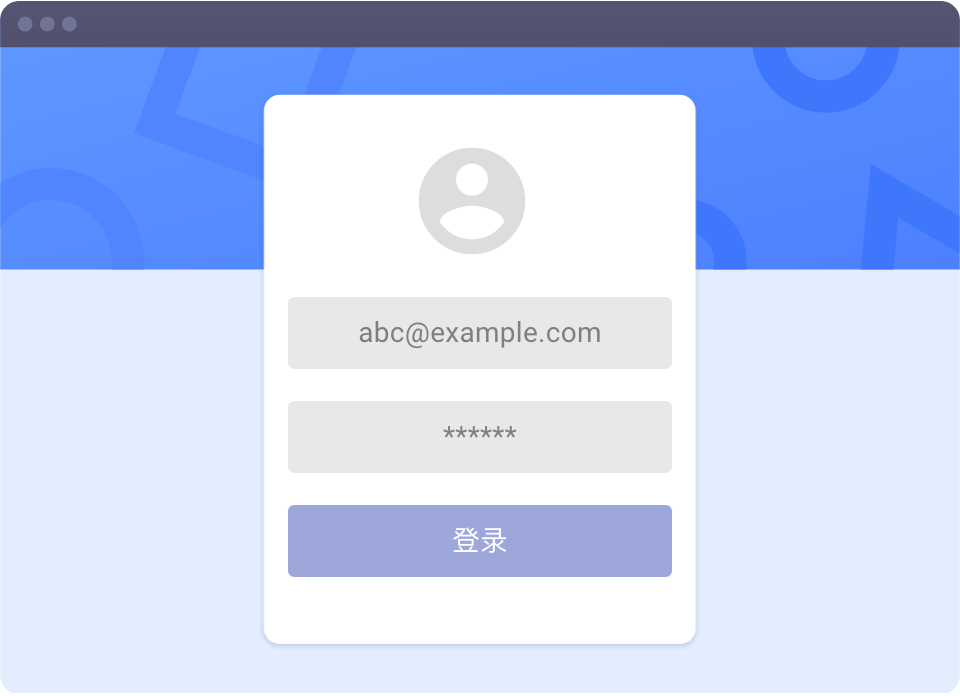
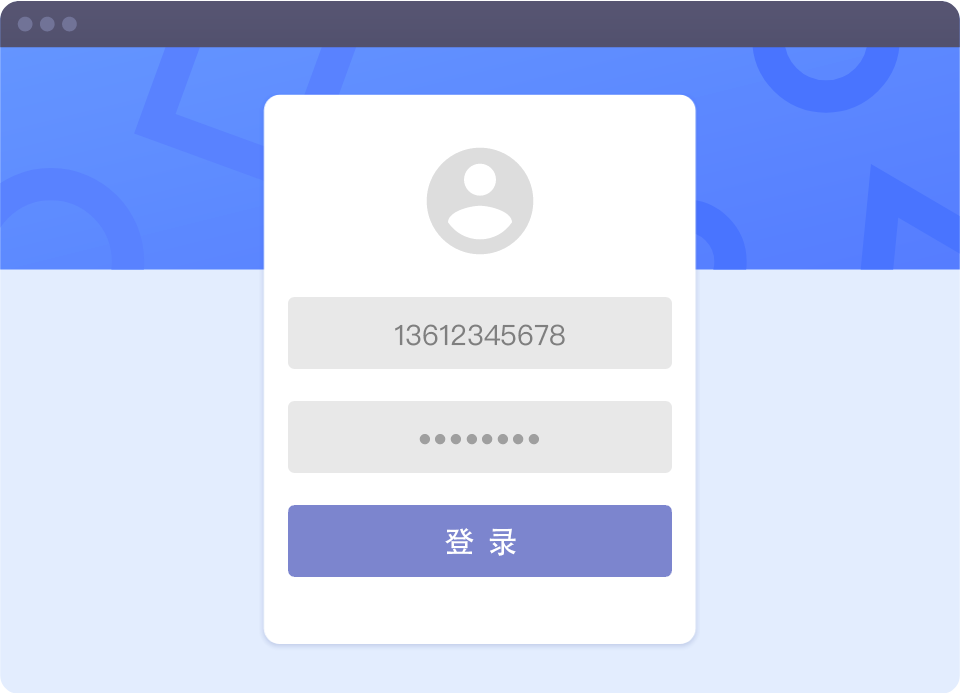
refactor: 优化sso页banner样式

diff --git a/src/components/single-sign-on/Banner.js b/src/components/single-sign-on/Banner.js
@@ -1,52 +1,24 @@
 import React from "react";
 import styles from "./Banner.module.css";
-import ssoBanner from "@site/static/img/sso-banner.png";
+import img1 from "@site/static/img/sso-banner.png";
 import Link from "@docusaurus/Link";
-import { Tooltip } from "@material-ui/core";
+import cn from "classnames";
 
 export default function () {
     return (
         <section className={styles.root}>
             <div className="container">
                 <div className="row">
-                    <div className="col">
-                        <h1 className={styles.title}>
-                            统一账号 &nbsp;单点登录
-                            <span style={{ whiteSpace: "nowrap" }}>
-                                （SSO
-                                <Tooltip
-                                    title="Single Sign On，单点登录"
-                                    placement="top"
-                                    enterTouchDelay={0}
-                                    leaveTouchDelay={5000}
-                                >
-                                    <span className="material-icons">help</span>
-                                </Tooltip>
-                                ）
-                            </span>
-                        </h1>
-                        <p className={styles.subtitle}>
-                            接入统一认证中心，跨应用共享账号，在别处注册的用户可以直接登录你的应用。
-                        </p>
-                        <div className={styles.buttonBox}>
-                            <a
-                                className="button button--primary button--lg"
-                                href="https://www.onlyid.net/console"
-                                target="_blank"
-                            >
-                                开始使用
-                            </a>
-                            <Link
-                                className="button button--secondary button--lg"
-                                to="/docs/sso"
-                                style={{ marginLeft: 30 }}
-                            >
-                                查看文档
-                            </Link>
-                        </div>
+                    <div className={cn("col", styles.col1)}>
+                        <span className="material-icons">portrait</span>
+                        <h1>单点登录 SSO</h1>
+                        <p>接入统一认证中心，跨应用共享账号，在别处注册的用户直接登录你的应用</p>
+                        <Link className="button button--primary" to="/docs/single-sign-on">
+                            查看文档
+                        </Link>
                     </div>
                     <div className="col">
-                        <img src={ssoBanner} alt="ssoBanner" className={styles.img1} />
+                        <img src={img1} alt="sso" className={styles.img1} />
                     </div>
                 </div>
             </div>

diff --git a/src/components/single-sign-on/Banner.module.css b/src/components/single-sign-on/Banner.module.css
@@ -1,85 +1,95 @@
 .root {
-    background-image: url("../../../static/img/sso-banner-bg.png");
+    background-image: url("/img/otp-banner-bg.png");
     background-size: cover;
+    color: white;
 }
 
-.title {
-    font-size: 40px;
+.col1 :global .material-icons {
+    font-size: 45px;
+    border-radius: 50%;
+    background-color: rgba(255, 255, 255, 0.85);
+    padding: 10px;
+    color: #3f51b5;
 }
 
-.title :global .material-icons {
-    font-size: 1.4rem;
-    vertical-align: text-top;
-    cursor: default;
+.col1 h1 {
+    margin-bottom: 30px;
 }
 
-.subtitle {
-    font-size: 22px;
+.col1 p {
+    margin-bottom: 40px;
 }
 
-.buttonBox a {
-    font-size: 16px;
-}
-
-.buttonBox :global .button--secondary:not(:hover) {
-    background-color: var(--ifm-color-gray-300);
-    border-color: var(--ifm-color-gray-300);
+.col1 :global .button {
+    --ifm-button-size-multiplier: 1.2;
 }
 
 .img1 {
     vertical-align: middle;
-    width: 100%;
-    border-radius: 15px;
-    background-color: rgba(100, 100, 100, 0.8);
-    padding: 32px 25px 25px;
-    opacity: 95%;
+    width: 530px;
+    background-color: rgba(255, 255, 255, 0.3);
 }
 
 @media (max-width: 996px) {
     .root {
-        padding: 76px 0 80px;
-        background-position: top left;
+        padding: 76px 0 95px;
+        background-position: 25% center;
     }
 
     .root :global .col + .col {
-        margin-top: 42px;
+        margin-top: 60px;
     }
 
-    .title {
-        margin-bottom: 25px;
+    .col1 h1 {
+        margin-top: 30px;
+        font-size: 38px;
     }
 
-    .subtitle {
-        margin-bottom: 28px;
+    .col1 p {
+        font-size: 19px;
     }
 
     .img1 {
-        max-width: 400px;
+        border-radius: 20px;
+        padding: 28px 20px 20px;
     }
 }
 
 @media (min-width: 997px) {
     .root {
         padding: 56px 0;
-        background-position: top center;
+        background-position: center center;
     }
 
     .root :global .row {
         align-items: center;
-        justify-content: space-between;
     }
 
-    .root :global .col {
-        --col-width: calc(59 / 120 * 100%);
-        flex: 0 0 var(--col-width);
-        max-width: var(--col-width);
+    .root :global .col:nth-child(2) {
+        text-align: right;
     }
 
-    .title {
-        margin-bottom: 32px;
+    .col1 :global .material-icons {
+        margin-top: -20px;
     }
 
-    .subtitle {
-        margin-bottom: 35px;
+    .col1 h1 {
+        margin-top: 25px;
+        font-size: 45px;
+    }
+
+    .col1 p {
+        font-size: 22px;
+    }
+
+    .img1 {
+        border-radius: 25px;
+        padding: 32px 25px 25px;
+    }
+}
+
+@media (min-width: 1140px) {
+    .root .col1 {
+        margin-left: 1rem;
     }
 }

diff --git a/src/components/home/Product.js b/src/components/home/Product.js
@@ -12,7 +12,7 @@ export default function () {
                     <div className="col col--4">
                         <Link className={styles.item} to="/one-time-password">
                             <span className={classNames("material-icons", styles.pin)}>pin</span>
-                            <h3>无密码 轻认证 &nbsp;OTP</h3>
+                            <h3>轻认证 OTP</h3>
                             <p>用短信/邮件验证码替代传统密码，即使新用户也可以快捷访问你的应用</p>
                         </Link>
                     </div>
@@ -21,18 +21,18 @@ export default function () {
                             <span className={classNames("material-icons", styles.portrait)}>
                                 portrait
                             </span>
-                            <h3>统一账号 单点登录 &nbsp;SSO</h3>
+                            <h3>单点登录 SSO</h3>
                             <p>
-                                接入统一认证中心，跨应用共享账号，在别处注册的用户可以直接登录你的应用
+                                接入统一认证中心，跨应用共享账号，在别处注册的用户直接登录你的应用
                             </p>
                         </Link>
                     </div>
                     <div className="col col--4">
-                        <Link className={styles.item} to="/user-and-access-management">
+                        <Link className={styles.item} to="/user-management">
                             <span className={classNames("material-icons", styles.groups)}>
                                 groups
                             </span>
-                            <h3>用户管理 权限控制 &nbsp;UAM</h3>
+                            <h3>用户管理 UM</h3>
                             <p>
                                 使用控制台和Open API简单快捷地管理用户，为不同的用户灵活分配访问权限
                             </p>

diff --git a/src/index.css b/src/index.css
@@ -84,7 +84,7 @@
     --ifm-code-font-size: 95%;
     --ifm-navbar-item-padding-horizontal: 1rem;
     --ifm-navbar-height: 3.5rem;
-    --ifm-menu-link-padding-vertical: 0.475rem;
+    --ifm-menu-link-padding-vertical: 8px;
     --ifm-font-color-base: rgba(0, 0, 0, 0.87);
     --ifm-menu-color: var(--ifm-color-emphasis-800);
     --ifm-container-width-xl: 1140px;
@@ -99,19 +99,19 @@
 
 /* nav bar start */
 .nav-item-product + .dropdown__menu .dropdown__link {
-    padding: 0.5rem 0.8rem;
-    font-size: 0.9375rem;
+    padding: 8px 16px 8px 12px;
+    font-size: 15px;
 }
 
 .nav-item-product + .dropdown__menu [class^="material-icons"] {
     vertical-align: -25%;
-    padding-right: 15px;
+    padding-right: 12px;
     opacity: 0.95;
 }
 
 .nav-item-product + .menu__list [class^="material-icons"] {
     font-size: 25px;
-    padding-right: 15px;
+    padding-right: 12px;
     opacity: 0.95;
 }
 

diff --git a/docusaurus.config.js b/docusaurus.config.js
@@ -2,16 +2,16 @@ const codeTheme = require("prism-react-renderer/themes/github");
 
 const productMenu = [
     {
-        html: '<span class="material-icons-outlined">pin</span>无密码 轻认证 &nbsp;OTP',
+        html: '<span class="material-icons-outlined">pin</span>轻认证 OTP',
         to: "/one-time-password"
     },
     {
-        html: '<span class="material-icons">portrait</span>统一账号 单点登录 &nbsp;SSO',
+        html: '<span class="material-icons">portrait</span>单点登录 SSO',
         to: "/single-sign-on"
     },
     {
-        html: '<span class="material-icons-outlined">groups</span>用户管理 权限控制 &nbsp;UAM',
-        to: "/user-and-access-management"
+        html: '<span class="material-icons-outlined">groups</span>用户管理 UM',
+        to: "/user-management"
     }
 ];
 

diff --git a/src/theme/Footer/index.module.css b/src/theme/Footer/index.module.css
@@ -19,7 +19,7 @@
 }
 
 ul.contact {
-    font-size: 0.9375rem;
+    font-size: 15px;
 }
 
 ul.contact li + li {
@@ -29,14 +29,15 @@ ul.contact li + li {
 ul.contact li :global .material-icons {
     font-size: 1rem;
     vertical-align: -20%;
-    margin-right: 0.4rem;
+    margin-right: 7px;
 }
 
 .qq {
-    font-size: 0.85rem;
-    margin-right: 0.4rem;
+    font-size: 13px;
+    margin-right: 7px;
     display: inline-block;
     width: 1rem;
+    text-align: center;
 }
 
 .company {
@@ -51,7 +52,7 @@ ul.links {
     display: flex;
     justify-content: space-between;
     align-items: center;
-    font-size: 0.875rem;
+    font-size: 14px;
 }
 
 li.divider {
@@ -60,7 +61,7 @@ li.divider {
 }
 
 .copyright {
-    font-size: 0.875rem;
+    font-size: 14px;
     margin-top: 11px;
     margin-bottom: 0;
     display: flex;

diff --git a/src/components/one-time-password/Banner.js b/src/components/one-time-password/Banner.js
@@ -11,9 +11,9 @@ export default function () {
                 <div className="row">
                     <div className={classNames("col", styles.col1)}>
                         <span className="material-icons">pin</span>
-                        <h1>无密码 轻认证 &nbsp;OTP</h1>
+                        <h1>轻认证 OTP</h1>
                         <p>用短信/邮件验证码替代传统密码，即使新用户也可以快捷访问你的应用</p>
-                        <Link className="button button--primary" to="/docs/otp">
+                        <Link className="button button--primary" to="/docs/one-time-password">
                             查看文档
                         </Link>
                     </div>

diff --git a/src/pages/single-sign-on.js b/src/pages/single-sign-on.js
@@ -3,16 +3,14 @@ import Layout from "@theme/Layout";
 import Banner from "../components/single-sign-on/Banner";
 import Intro from "../components/single-sign-on/Intro";
 import Compare from "../components/single-sign-on/Compare";
-import Migrate from "../components/single-sign-on/Migrate";
 import Case from "../components/single-sign-on/Case";
 
 export default function () {
     return (
-        <Layout title="统一账号 单点登录 SSO">
+        <Layout title="单点登录 SSO">
             <Banner />
             <Intro />
             <Compare />
-            <Migrate />
             <Case />
         </Layout>
     );

diff --git a/src/pages/one-time-password.js b/src/pages/one-time-password.js
@@ -9,7 +9,7 @@ import Case from "../components/one-time-password/Case";
 
 export default function () {
     return (
-        <Layout title="无密码 轻认证 OTP">
+        <Layout title="轻认证 OTP">
             <Banner />
             <Intro />
             <Subscription />

diff --git a/src/pages/user-management.js b/src/pages/user-management.js
@@ -2,5 +2,5 @@ import React from "react";
 import Layout from "@theme/Layout";
 
 export default function () {
-    return <Layout title="用户管理 权限控制">uam</Layout>;
+    return <Layout title="用户管理 UM">um</Layout>;
 }

diff --git a/src/components/one-time-password/Intro.module.css b/src/components/one-time-password/Intro.module.css
@@ -75,7 +75,7 @@
     .root :global .col:nth-child(2) {
         display: flex;
         flex-direction: column;
-        align-items: end;
+        align-items: flex-end;
         padding-right: 2rem;
     }
 

diff --git a/src/components/one-time-password/Banner.module.css b/src/components/one-time-password/Banner.module.css
@@ -27,7 +27,7 @@
 .img1 {
     vertical-align: middle;
     width: 530px;
-    opacity: 95%;
+    background-color: rgba(255, 255, 255, 0.85);
 }
 
 @media (max-width: 996px) {
